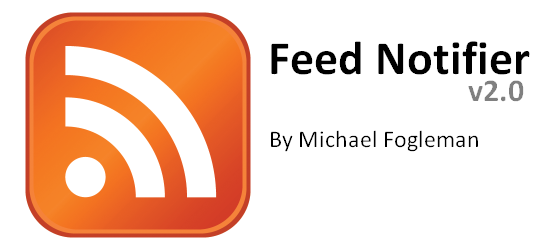
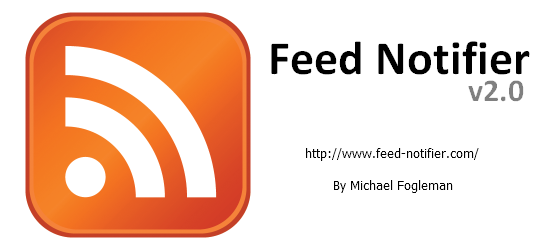
removed old about dialog remnants

Changed region(s): [[0.4945, 0.504, 0.8964, 0.644], [0.5873, 0.728, 0.8345, 0.784]]

diff --git a/www/index.html b/www/index.html
@@ -35,6 +35,7 @@
             <li>"Auto-play" option can be turned off to prevent popups from disappearing automatically.</li>
             <li>Pop-ups can be displayed in the center of the screen.</li>
             <li>System tray icon changes when the app is checking feeds.</li>
+            <li>Automatically computes a good polling interval when adding a new feed.</li>
             <li>Number of items shown in pop-up, e.g. "4 of 12"</li>
             <li>Ability to edit feeds and configure feed titles and links.</li>
             <li>Many more user preferences.</li>

diff --git a/view.py b/view.py
@@ -15,7 +15,6 @@ class TaskBarIcon(wx.TaskBarIcon):
         menu = wx.Menu()
         util.menu_item(menu, 'Add Feed...', self.on_add_feed, 'icons/add.png')
         util.menu_item(menu, 'Preferences...', self.on_settings, 'icons/cog.png')
-        #util.menu_item(menu, 'About...', self.on_about, 'icons/information.png')
         menu.AppendSeparator()
         if self.controller.enabled:
             util.menu_item(menu, 'Disable Updates', self.on_disable, 'icons/delete.png')
@@ -38,8 +37,6 @@ class TaskBarIcon(wx.TaskBarIcon):
         self.controller.show_popup()
     def on_force_update(self, event):
         self.controller.force_poll()
-    def on_about(self, event):
-        self.controller.about()
     def on_disable(self, event):
         self.controller.disable()
     def on_enable(self, event):
@@ -60,22 +57,6 @@ class HiddenFrame(wx.Frame):
         event.Skip()
         wx.CallAfter(self.icon.Destroy)
         self.controller.manager.save()
-        
-class DialogFrame(wx.Frame):
-    def __init__(self, parent, title):
-        style = wx.DEFAULT_FRAME_STYLE & ~wx.MAXIMIZE_BOX & ~wx.RESIZE_BORDER
-        super(DialogFrame, self).__init__(parent, -1, title, style=style)
-        self.SetIcon(wx.IconFromBitmap(wx.Bitmap('icons/feed.png')))
-        
-class AboutDialog(DialogFrame):
-    def __init__(self, parent):
-        super(AboutDialog, self).__init__(parent, 'About Feed Notifier 2.0')
-        panel = wx.Panel(self, -1)
-        bitmap = wx.StaticBitmap(panel, -1, wx.Bitmap('icons/about.png'), style=wx.BORDER_SUNKEN)
-        sizer = wx.BoxSizer(wx.VERTICAL)
-        sizer.Add(bitmap, 0, wx.ALL, 10)
-        panel.SetSizerAndFit(sizer)
-        self.Fit()
         
 class AddFeedDialog(wx.Dialog):
     @staticmethod

diff --git a/controller.py b/controller.py
@@ -91,10 +91,6 @@ class Controller(object):
         items = self.manager.items
         index = len(items) - 1
         self.show_items(items, index, False)
-    def about(self):
-        window = view.AboutDialog(self.frame)
-        window.Center()
-        window.Show()
     def add_feed(self, url=''):
         feed = view.AddFeedDialog.show_wizard(self.frame, url)
         if not feed:
